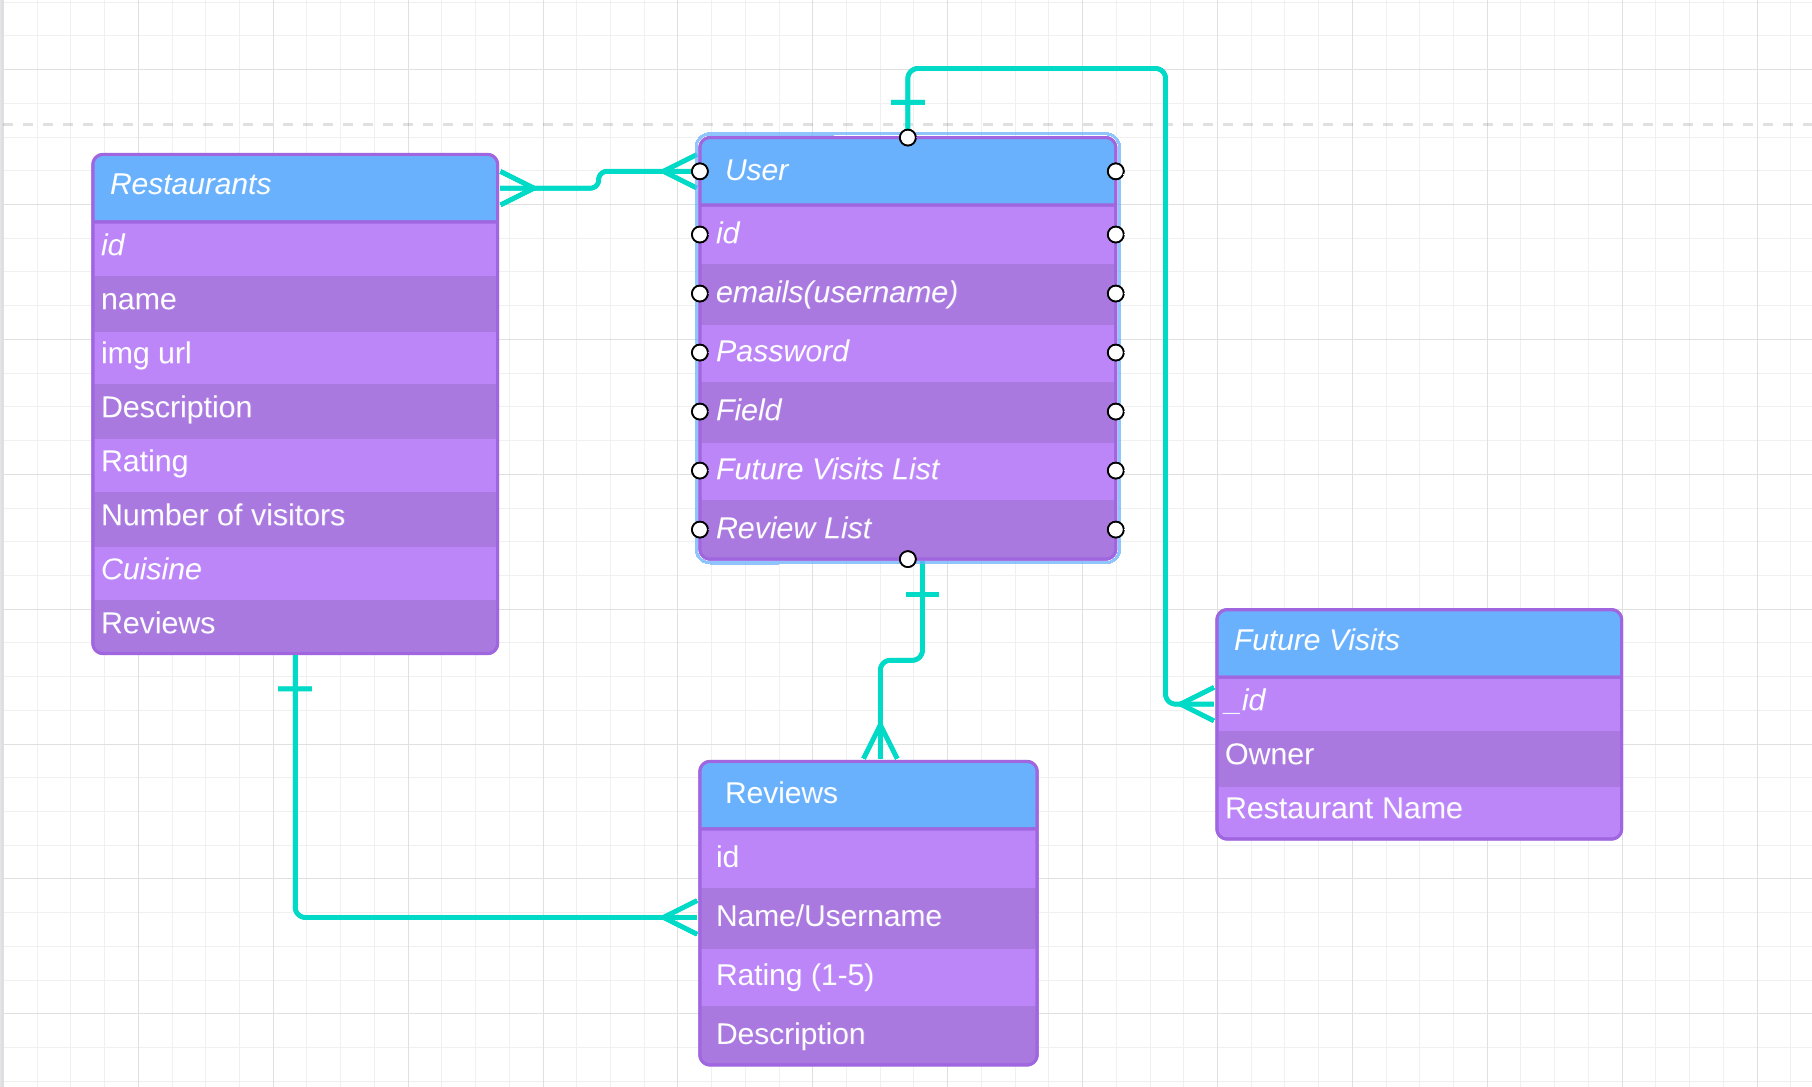
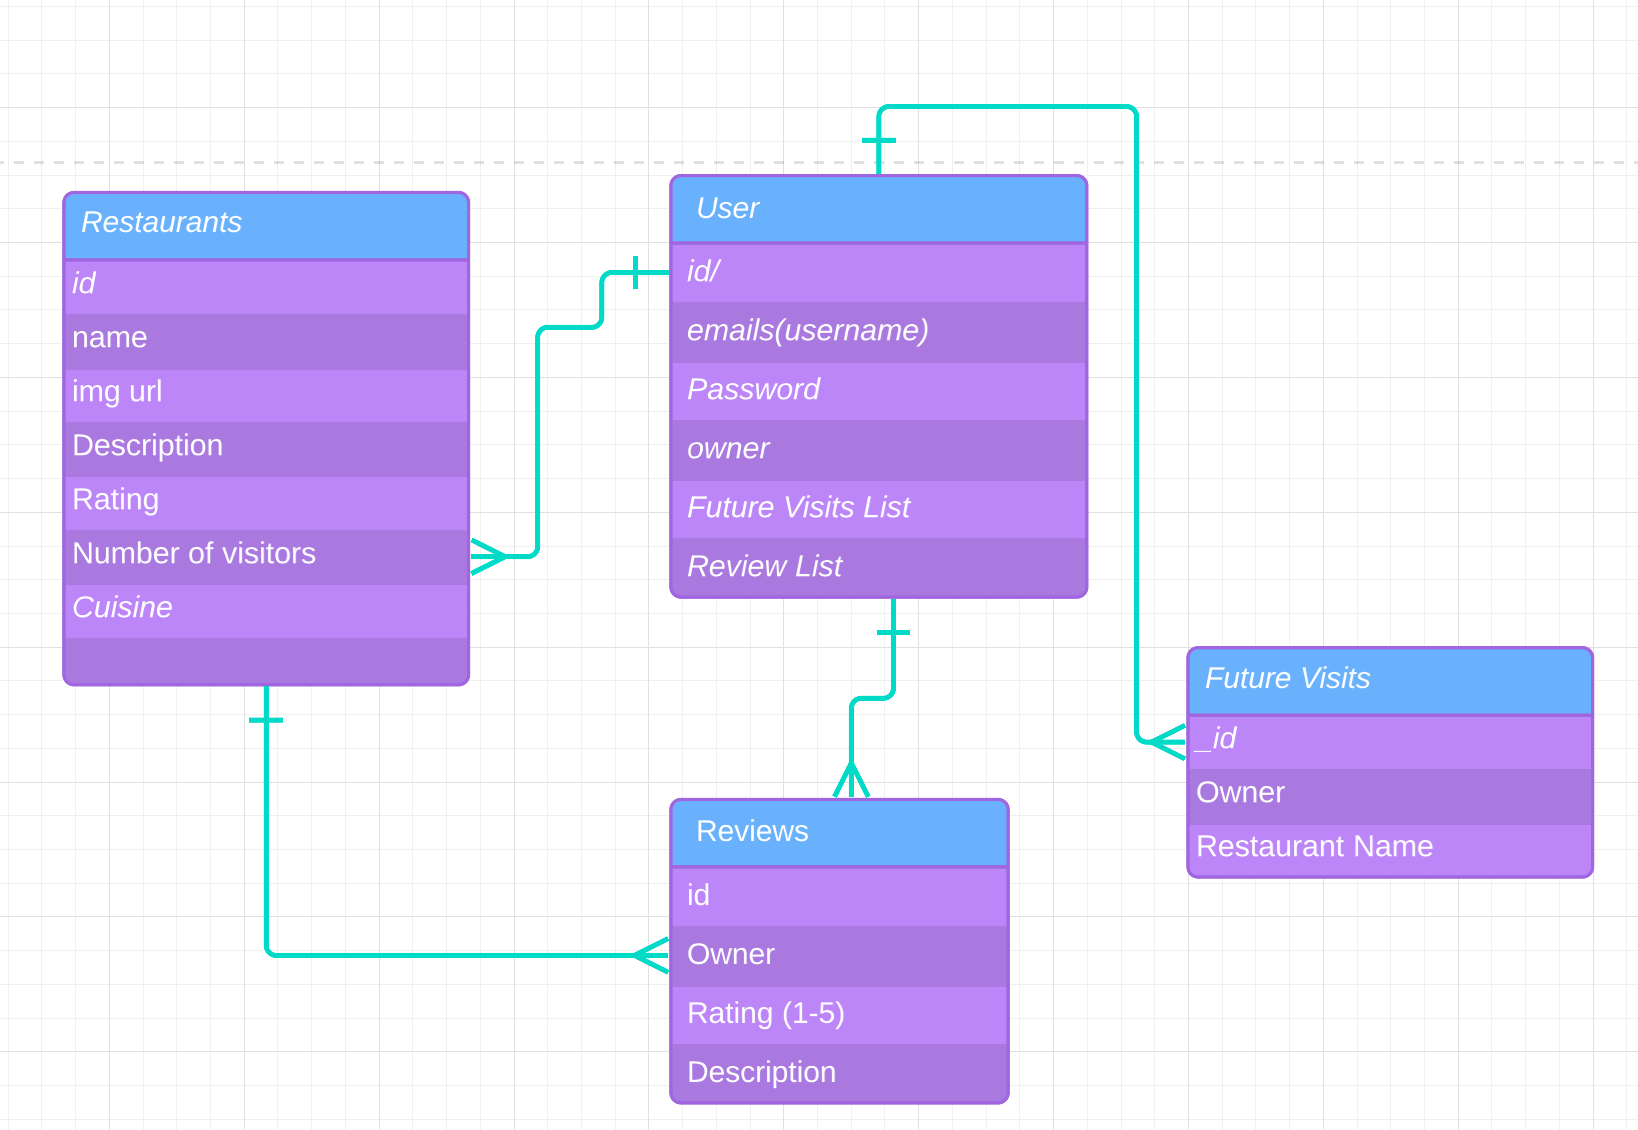
Updated ERD and README

Changed region(s): [[0.0311, 0.0607, 0.9963, 1.0], [0.0, 0.9108, 0.0311, 0.9411], [0.0, 0.7893, 0.0311, 0.8197]]

diff --git a/README.md b/README.md
@@ -15,7 +15,7 @@
 6. The reviews will be listed at the bottom of the page with the appropriate date attached and rating. 
 
 Technologies Used: React, Bootstrap, JavaScript, MongoDB, Mongoose, JavaScript, Postman, Express, BCrypt, Passport
-
+Models: Reviews, Restaurants, User
 MVP: Full CRUD, along with a Fully Functioning Review System 
 
 Stretch Goals: Recommended Restauarants Specific To Users. Adding in A Calendar for Vegan Events
@@ -31,4 +31,4 @@ WireFrames:
 
 ERDS
 
-![start](img/ERD.png)
+![start](img/Erd.png)
